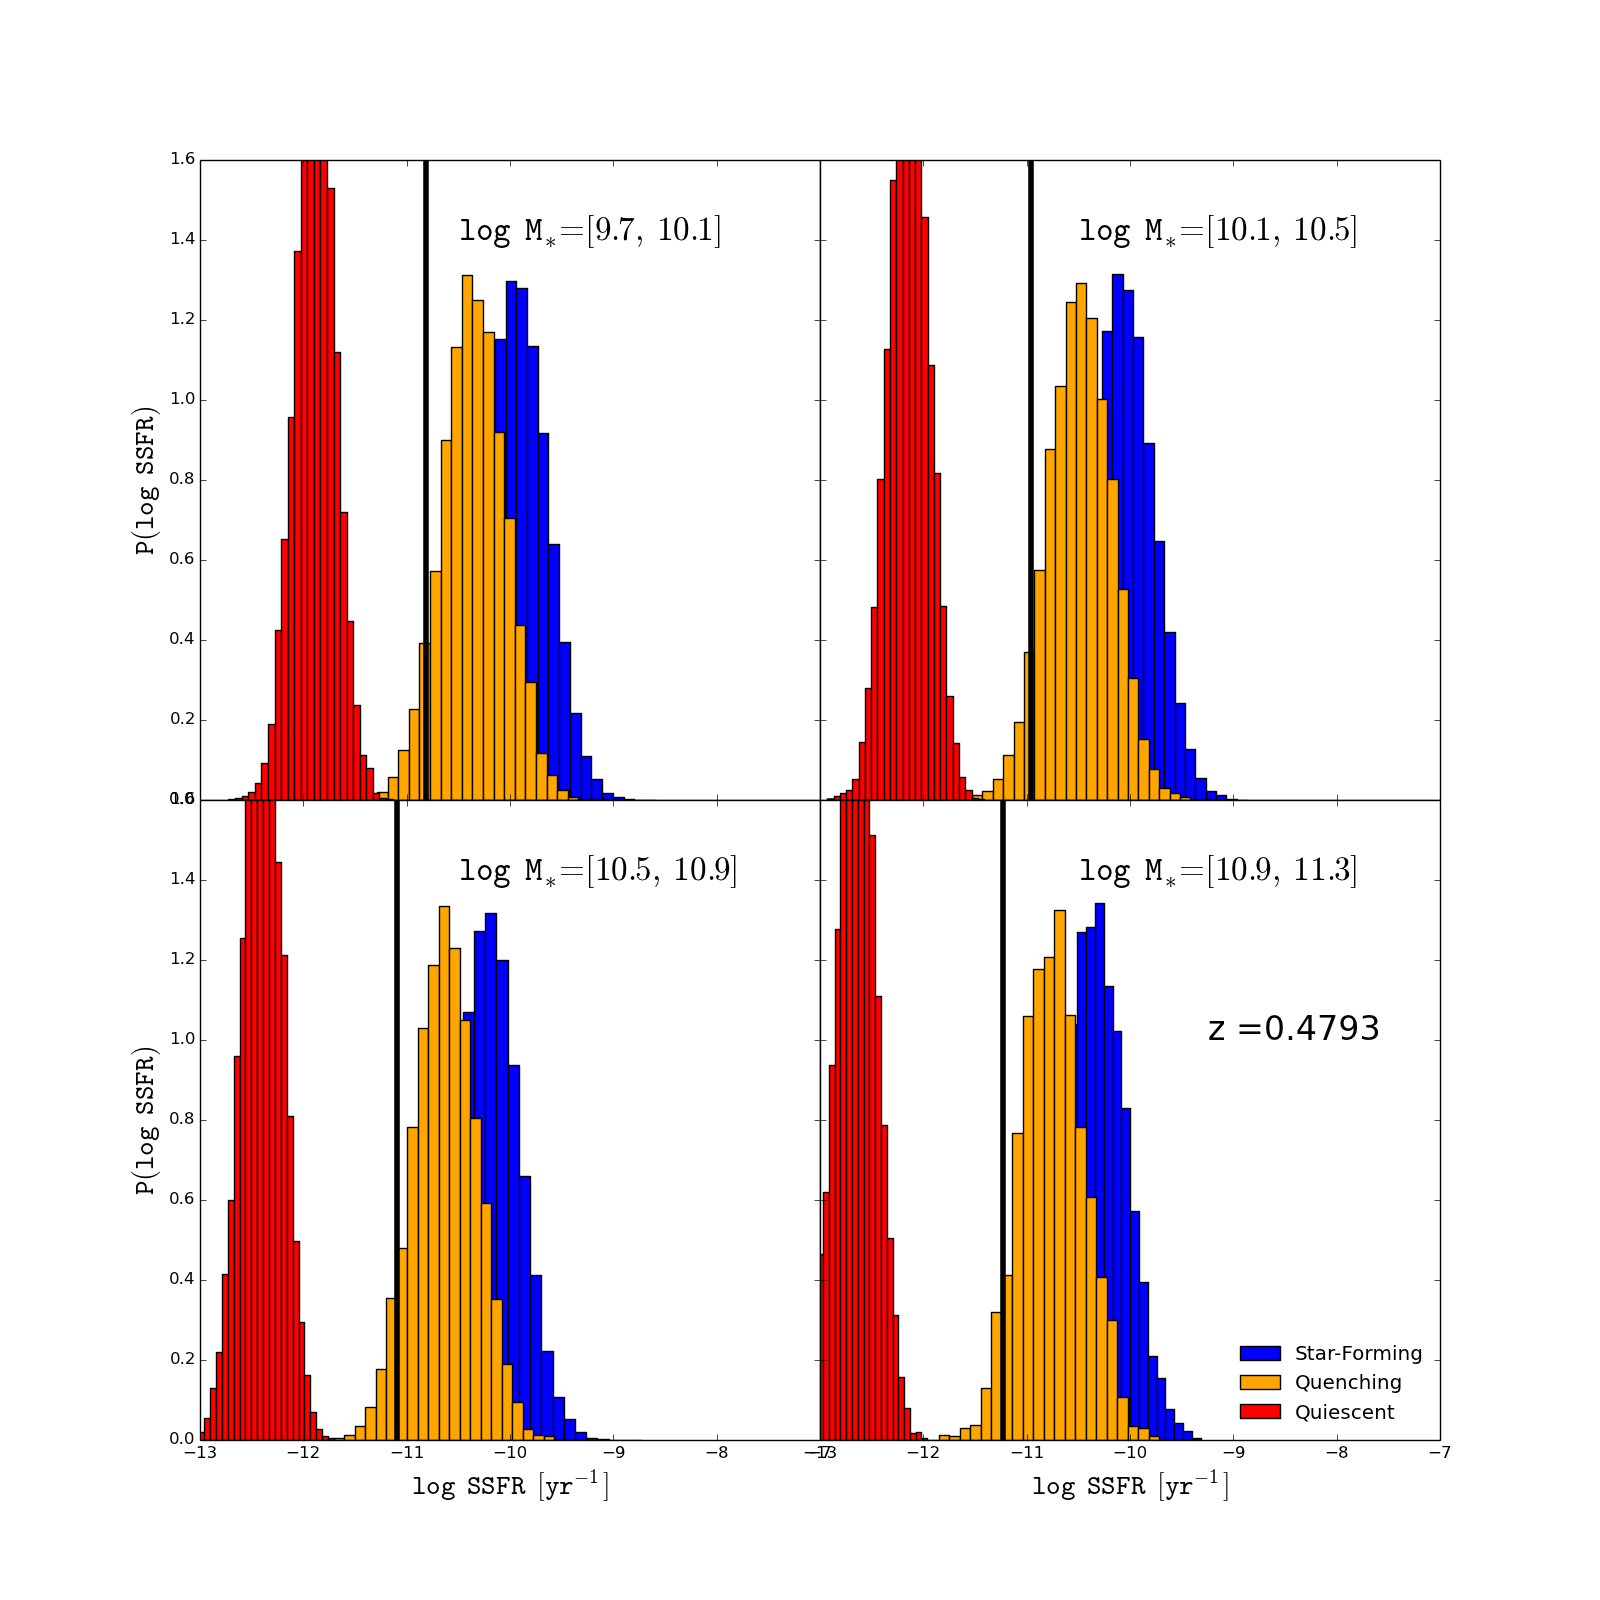
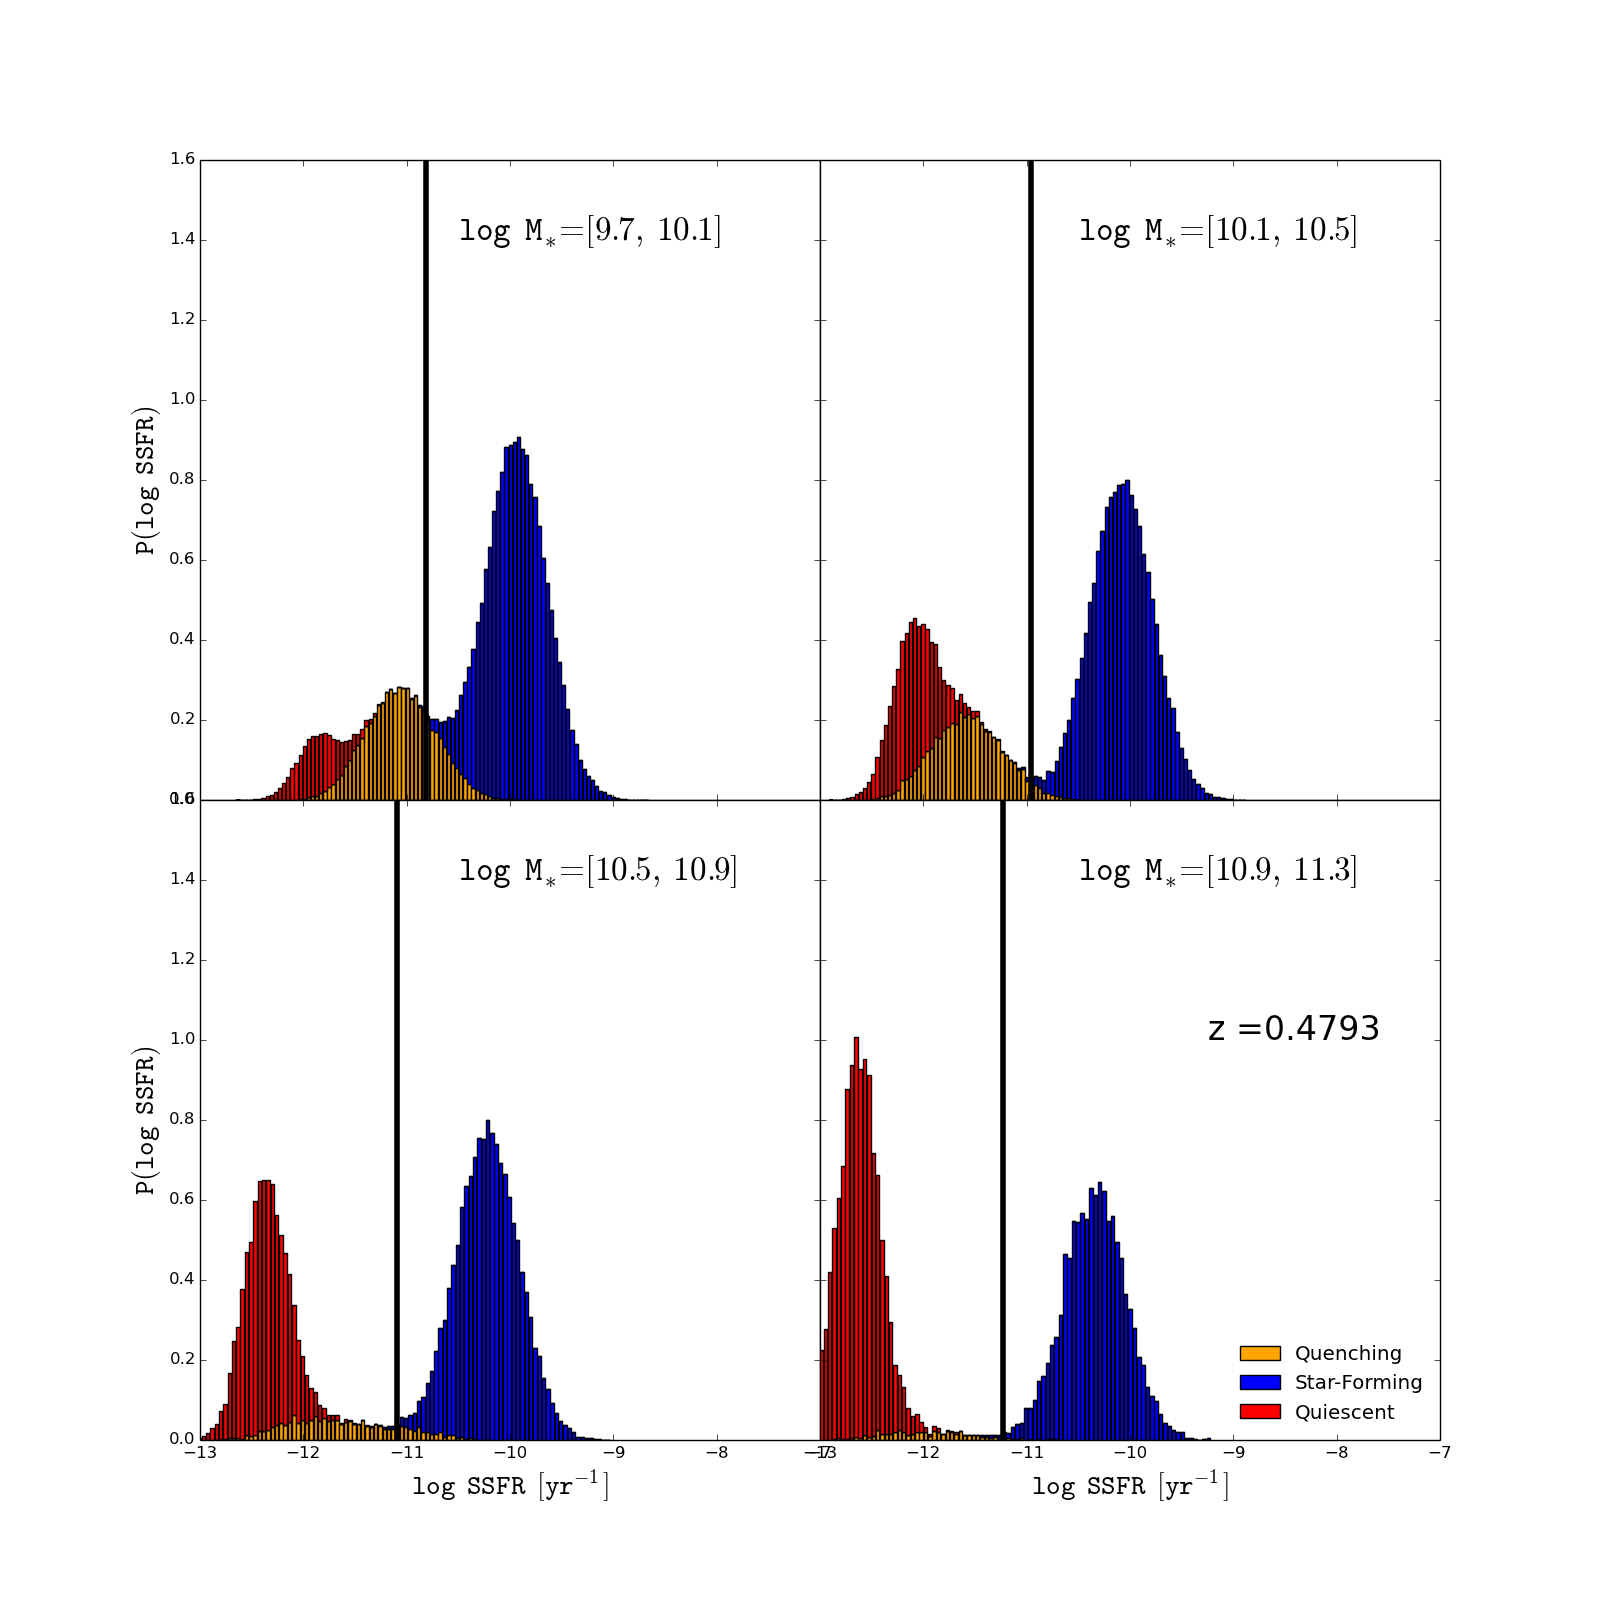
Fixed inheritance issues

Changed region(s): [[0.5, 0.0938, 0.7812, 0.9062], [0.125, 0.0938, 0.375, 0.9062], [0.7812, 0.8438, 0.9062, 0.875]]

diff --git a/evolve.py b/evolve.py
@@ -8,6 +8,7 @@ Author(s): ChangHoon Hahn
 import time
 import random 
 import numpy as np
+import warnings
 
 from cenque import CenQue
 from util import cenque_utility as util
@@ -131,20 +132,22 @@ def evolve_onestep(parent_cq, child_cq, quiet=False):
     parents, children = parent_children_match(parent_cq.snap_index, child_cq.parent)
 
     # Deal with parent to children inheritance (children inherit the parents' attributes)
+    # This step needs to be thought out more. 
     inheritance_time = time.time()
     child_cq.parent_sfr[children]       = parent_cq.sfr[parents]
     child_cq.parent_mass[children]      = parent_cq.mass[parents]
     child_cq.parent_halo_mass[children] = parent_cq.halo_mass[parents]
     
     for attr in child_cq.data_columns: 
-        if attr not in ('parent_sfr', 'parent_mass', 'parent_halo_mass'): 
+        # Inherit everything but the TreePM and Halo information
+        if attr not in ('mass', 'halo_mass', 'parent', 'child', 'ilk', 'snap_index', 'pos', 
+                'parent_sfr', 'parent_mass', 'parent_halo_mass'): 
             try: 
                 parent_attr = getattr(parent_cq, attr)[parents]
                 getattr(child_cq, attr)[children] = parent_attr
             except AttributeError: 
-                print attr
-                if attr in ('q_ssfr', 'tau'):
-                    pass
+                if 'evol_from' not in parent_cq.cenque_type:
+                    pass 
                 else: 
                     raise ValueError()
     print 'Inheritance takes ', time.time() - inheritance_time
@@ -183,17 +186,21 @@ def evolve_onestep(parent_cq, child_cq, quiet=False):
             (child_cq.tau[children] == -999.0)
             )
     q_children = children[quiescent_children]
-    q_children_parents = parents[quiescent_children]
     
-    child_cq.ssfr[q_children] = parent_cq.ssfr[q_children_parents]
+    # correct the SFR in order to preserve SSFR
+    # this is because the mass evolves through SHAM  
     child_cq.sfr[q_children] = child_cq.ssfr[q_children] + child_cq.mass[q_children]
     
     # Evolve Star-forming Children 
+    # include doucmentation details 
+    # include doucmentation details 
+    # include doucmentation details 
+    # include doucmentation details 
+    # include doucmentation details 
     starforming_children = np.where(
             child_cq.gal_type[children] == 'star-forming'
             )
     sf_children = children[starforming_children] 
-    sf_children_parents = parents[starforming_children]
 
     if child_cq.sf_prop['name'] == 'average': 
         sfr_mstar_z, sig_sfr_mstar_z = get_param_sfr_mstar_z()
@@ -222,6 +229,9 @@ def evolve_onestep(parent_cq, child_cq, quiet=False):
 
         child_cq.sfr[still_quenching] = child_cq.parent_sfr[still_quenching] + tau_quench 
         child_cq.ssfr[still_quenching] = child_cq.sfr[still_quenching] - child_cq.mass[still_quenching]
+    else: 
+        if 'evol_from' in parent_cq.cenque_type:
+            raise ValueError()
 
     print 'Quenching SF galaxies takes ', time.time() - quenching_time
     
@@ -271,6 +281,7 @@ def evolve_onestep(parent_cq, child_cq, quiet=False):
     quenching_start_time = time.time()
     # Quench a number of star-forming galaxies in order to match the 
     # quiescent fraction at the next cosmic time step 
+
     for i_m in xrange(mass_bins.nbins):              
 
         quench_index += quenching_galaxies_massbin(
@@ -283,14 +294,12 @@ def evolve_onestep(parent_cq, child_cq, quiet=False):
                 quiet=quiet
                 )
 
-    print 'Quenching takes ', time.time() - quenching_start_time 
-    
     quench_index = np.array(quench_index)
 
     if len(quench_index) != 0:
 
         child_cq.gal_type[quench_index] = 'quiescent'  # boom quenched 
-        
+
         # assign quenching e-folds for quenching galaxies
         child_cq.tau[quench_index] = get_quenching_efold(
                 child_cq.parent_mass[quench_index], 
@@ -307,21 +316,27 @@ def evolve_onestep(parent_cq, child_cq, quiet=False):
         q_ssfr_mean = util.get_q_ssfr_mean(child_cq.mass[quench_index]) 
         child_cq.q_ssfr[quench_index] = 0.18 * np.random.randn(len(quench_index)) + q_ssfr_mean 
         
+    print 'Quenching takes ', time.time() - quenching_start_time 
+    
     if not quiet: 
         print "Child's redshift = ", child_cq.zsnap
 
     # deal with orphans ------------------------------------------------------------
+    orphan_time = time.time()
     print len(child_cq.gal_type[child_cq.gal_type == '']), ' child galaxies are orphans' 
     child_cq = assign_sfr(child_cq, quiet=quiet)
 
     if len(child_cq.gal_type[child_cq.gal_type == '']) != 0:
         print len(child_cq.gal_type[child_cq.gal_type == '']), ' child galaxies are orphans' 
         raise ValueError() 
-    
+    print 'Orphan care takes ', time.time() - orphan_time
+
     # deal with galaxies that are being quenched beyond the designated final quenching  
+    overquench_time = time.time()
     over_quenched = np.where(child_cq.ssfr < child_cq.q_ssfr)
     child_cq.ssfr[over_quenched] = child_cq.q_ssfr[over_quenched]
     child_cq.tau[over_quenched] = -999.0            # done quenching 
+    print 'Overquenching takes ', time.time() - overquench_time
 
     print 'Evolution for one time step takes ', time.time() - evo_start
 
@@ -331,8 +346,9 @@ def evolve_onestep(parent_cq, child_cq, quiet=False):
     return child_cq
 
 def quenching_galaxies_massbin(cenque, delta_t_cosmic, m_bin_mid, indices, sf_indices, ngal2quench, quiet=False):
-    """ Quench a random number of star-forming galaxies in mass bin 
+    """ Select which star-forming galaxies to quench in a specified mass bin 
     """
+
     ngal = len(indices[0])
     ngal_sf = len(sf_indices)
 
@@ -355,9 +371,10 @@ def quenching_galaxies_massbin(cenque, delta_t_cosmic, m_bin_mid, indices, sf_in
         print 'current fq = ', 1.0 - np.float(ngal_sf)/np.float(ngal)
         print ngal2quench, ' SF galaxies need to be quenched'
 
-    # number of SF galaxies to quench will be determined by first determining how many galaxies will be quenched
-    # if the entire SF population was quenched, taking the ratio of that number over the 'exp_ngal_q_massbin'. 
-    # we use that factor as the "quenching fraction" (the fraction of SF galaxies that will be quenched for this mass
+    # number of SF galaxies to quench will be determined by first determining how many 
+    # galaxies will be quenched if the entire SF population was quenched, taking the 
+    # ratio of that number over the 'exp_ngal_q_massbin'. We use that factor as the 
+    # "quenching fraction" (the fraction of SF galaxies that will be quenched for this mass
     # bin and redshift) 
     pred_taus = get_quenching_efold(
             cenque.parent_mass[sf_indices], 
@@ -367,7 +384,6 @@ def quenching_galaxies_massbin(cenque, delta_t_cosmic, m_bin_mid, indices, sf_in
     pred_tau_quench = np.log10(np.exp( 
         -1.0 * delta_t_cosmic / pred_taus 
         ))      
-    print max(pred_tau_quench)
 
     pred_sfqs = sfq_classify(
             cenque.mass[sf_indices], 
@@ -380,7 +396,7 @@ def quenching_galaxies_massbin(cenque, delta_t_cosmic, m_bin_mid, indices, sf_in
     pred_ngal_q = np.float(np.sum(pred_sfqs == 'quiescent'))
 
     if pred_ngal_q == 0: 
-        print 'Quenching time-scale is too long'
+        warnings.warn('Quenching time-scale is too long')
         #raise ValueError("What the fuck") 
         
     # Quenching fraction evalutation
@@ -417,7 +433,8 @@ def quenching_galaxies_massbin(cenque, delta_t_cosmic, m_bin_mid, indices, sf_in
 
 def parent_children_match(parent_snap_index, child_parent_snap_index):
     """ Match snapshot index of parents to the parent snapshot index of
-    childrens 
+    childrens by matching (index, parent), (index, child) key pairs 
+    Takes approximately < 1 second
     """
     parent_child_start_time = time.time()
     parent_index_dict = dict( 
@@ -447,4 +464,4 @@ if __name__=='__main__':
     #blah = assign_sfr(blah)
     #blah.writeout()
     blah.readin()
-    blah = evolve_cq(blah, tau_prop = {'name': 'constant'}, quiet=True)
+    blah = evolve_cq(blah, tau_prop = {'name': 'satellite'}, quiet=True)

diff --git a/plotting/plot_cenque.py b/plotting/plot_cenque.py
@@ -156,36 +156,41 @@ class PlotCenque:
                     (cenque.tau < 0.0) 
                     )
 
-            
-            if len(sf_massbin[0]) > 0: 
-                self.subs[i_mass].hist(
-                        cenque.ssfr[sf_massbin], 
-                        25, 
-                        stacked=True, 
-                        normed = True, 
-                        color = 'blue',
-                        label = 'Star-Forming'
-                        )
-
+            data_list = []  
+            color_list = [] 
+            label_list = [] 
             if len(quenching_massbin[0]) > 0: 
-                self.subs[i_mass].hist(
-                        cenque.ssfr[quenching_massbin], 
-                        25, 
-                        stacked=True, 
-                        normed = True, 
-                        color = 'orange',
-                        label = 'Quenching' 
+                data_list.append(
+                        cenque.ssfr[quenching_massbin]
                         )
+                color_list.append('orange')
+                label_list.append('Quenching')
 
-            if len(q_notquenching_massbin[0]) > 0: 
-                self.subs[i_mass].hist(
-                        cenque.ssfr[q_notquenching_massbin], 
-                        25, 
-                        stacked=True, 
-                        normed=True,
-                        color='red',
-                        label = 'Quiescent' 
+            if len(sf_massbin[0]) > 0: 
+                data_list.append(
+                        cenque.ssfr[sf_massbin]
                         )
+                color_list.append('blue')
+                label_list.append('Star-Forming')
+
+            if len(q_notquenching_massbin[0]) > 0:
+                data_list.append(
+                        cenque.ssfr[q_notquenching_massbin]
+                        )
+                color_list.append('red')
+                label_list.append('Quiescent')
+
+            print i_mass, panel_mass
+            print len(quenching_massbin[0]), len(sf_massbin[0]), len(q_notquenching_massbin[0])
+
+            self.subs[i_mass].hist(
+                    data_list, 
+                    100, 
+                    normed = 1, 
+                    stacked=True, 
+                    color = color_list,
+                    label = label_list 
+                    )
 
             if panel_mass == self.panel_mass_bins[-1]: 
                 self.subs[i_mass].text(-9.25, 1., 'z ='+str(cenque.zsnap),

diff --git a/plotting/test_evolve.py b/plotting/test_evolve.py
@@ -6,7 +6,9 @@ from defutility.plotting import prettyplot
 from defutility.plotting import prettycolors 
 from plotting.plot_cenque import PlotCenque
 
-def test_evolve(n_snaps=[12,11,10,9,8,7,6,5,4,3,2,1], Mrcut=18, **kwargs): 
+def test_evolve(n_snaps=[12,11,10,9,8,7,6,5,4,3,2,1], 
+        tau_prop = {'name': 'instant'}, 
+        Mrcut=18, **kwargs): 
     ''' Plot evolution of the CenQue SSFR distribution 
 
     Parameters
@@ -24,6 +26,7 @@ def test_evolve(n_snaps=[12,11,10,9,8,7,6,5,4,3,2,1], Mrcut=18, **kwargs):
     # Overplot CenQue of specified Snapshots 
     for i_nsnap in n_snaps:  
         next_snap = CenQue(n_snap = i_nsnap, cenque_type = 'evol_from13') 
+        next_snap.tau_prop = tau_prop
         next_snap.readin()
         
         ssfr_fig.cenque_ssfr_dist(next_snap)
@@ -79,11 +82,12 @@ def test_quenching_population(
         ''.join([str(i_nsnap) for i_nsnap in n_snaps]), 
         '.png'
         ]) 
-
+        
     ssfr_fig.fig.savefig(fig_file) 
     ssfr_fig.fig.clear()
     plt.close()
 
 if __name__=="__main__": 
     for i_snap in [12, 11, 10, 9, 8, 7, 6, 5, 4, 3, 2, 1]: 
-        test_quenching_population(n_snaps=[i_snap], tau_prop = {'name': 'constant'})
+        #test_evolve(n_snaps=[i_snap], tau_prop = {'name': 'satellite'})
+        test_quenching_population(n_snaps=[i_snap], tau_prop = {'name': 'satellite'})
